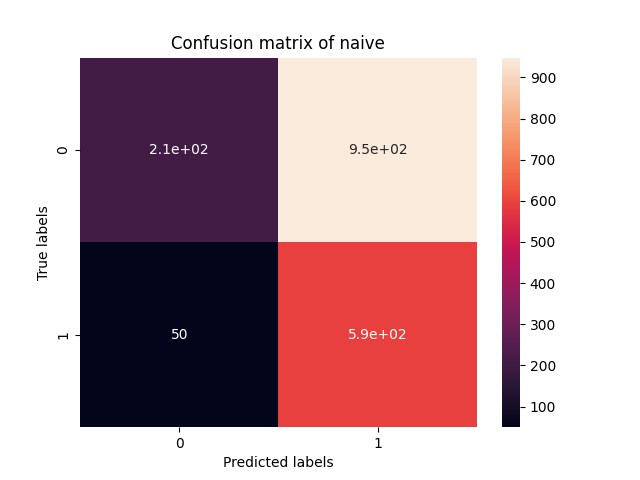
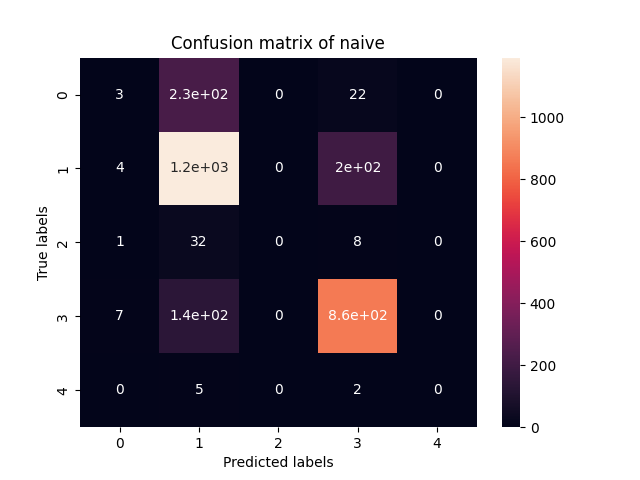
naive bayes classifier fixed

diff --git a/data_preprocess.py b/data_preprocess.py
@@ -9,6 +9,7 @@ from sklearn.preprocessing import StandardScaler
 from sklearn.model_selection import train_test_split
 from sklearn.preprocessing import OneHotEncoder
 import numpy as np 
+from sklearn.preprocessing import OrdinalEncoder, LabelEncoder
 '''Nettoyage. Puis se pose la question de la préparation des données proprement dite. Ces
 données nécessitent-elles un nettoyage ? Faut-il écarter certaines instances qui ne sont
 pas liées au problème ? Y a-t-il des valeurs manquantes ? Des valeurs aberrantes ? Des
@@ -133,7 +134,7 @@ class DataPreparation:
         print("Dropping the nan values...")
         data = self.data.dropna()
         data = data.sample(frac=1) # Shuffle the data
-        data = data[:20000]
+        data = data[:30000]
         # data = data[:1000]
         print("Dropping completed")
         # Subtract the start and end date in order to get the duration
@@ -219,20 +220,48 @@ class DataPreparation:
         return main_data,data["state"], data_numerical_scaled, data_categorical_encoded
 
 
-    def pretraitement(self,data, categorical=False, numerical=False):
+    def pretraitement(self,data, categorical=False, numerical=False, bayesian=False):
         '''
         Categorical:(boolean) if set to true return the already one encoded categorical data for some specific classifier such as naive bayes classifier
         '''
-        main_data,  target, data_numerical_scaled, data_categorical_encoded =self.recodage(data, binairy=True, ignored_goal=True)
+
+        main_data,  target, data_numerical_scaled, data_categorical_encoded =self.recodage(data, binairy=False, ignored_pledged=True)
         if categorical:
             return  data_categorical_encoded,target
         elif numerical:
             return data_numerical_scaled,target
+
+        elif bayesian:
+            encoder = OrdinalEncoder()
+            label_encoder = LabelEncoder()
+            data = self.nettoyage()
+            target = data["state"]
+            data.drop(["pledged"], axis=1, inplace=True)
+            data.drop(["subcategory"], axis=1, inplace=True)
+            data.drop(["state"], axis=1, inplace=True)
+            # discretize the attributes age, backers, goal,duration with equal-intervaled bins
+            age = pd.qcut(data['age'], q=10, precision=0)
+            backers = pd.qcut(data['backers'], q=3, precision=0)
+            goal = pd.qcut(data['goal'], q=10, precision=0)
+            duration = pd.cut(data['duration'], 10, precision=0)
+            data["age"] = age
+            data["backers"] = backers
+            data["goal"] = goal
+            data["duration"] = duration
+            data_encoded = encoder.fit_transform(data)
+            data_final = pd.DataFrame(data_encoded, columns=data.columns)
+            target_encoded = label_encoder.fit_transform(target)
+            # print(label_encoder.inverse_transform(target_encoded))
+            # print(data_final)
+
+
+            return data_final, target_encoded
+
         else:
             return main_data, target
          
 
-    def decoupage(self, data, categorical_data =False, numerical_data=False):
+    def decoupage(self, data, categorical_data =False, numerical_data=False, bayesian=False):
         '''
         Args:
             - X(pandas DataFrame): input data
@@ -262,6 +291,12 @@ class DataPreparation:
             # 10 % of test data and 10% of valid data and 80 % of train data
             X_train, X_test, y_train,y_test = train_test_split(X_train, y_train, test_size=0.1, random_state=42)
             return X_train, X_valid,X_test, y_train, y_valid,y_test
+        elif bayesian:
+            data_categorical_bayes, target= self.pretraitement(data, bayesian=True)
+            X_train, X_valid, y_train,y_valid = train_test_split(data_categorical_bayes, target, test_size=0.1, random_state=42)
+            # 10 % of test data and 10% of valid data and 80 % of train data
+            X_train, X_test, y_train,y_test = train_test_split(X_train, y_train, test_size=0.1, random_state=42)
+            return X_train, X_valid,X_test, y_train, y_valid,y_test
 
         
         else:
@@ -275,7 +310,7 @@ class DataPreparation:
             return X_train, X_valid,X_test, y_train, y_valid,y_test
 
 
-def main_data_splitter(data, categorical = False, numerical=False):
+def main_data_splitter(data, categorical = False, numerical=False, bayesian=False):
     '''
     Args: 
         - data: pandas DataFrame
@@ -310,6 +345,16 @@ def main_data_splitter(data, categorical = False, numerical=False):
         print(f'Shape of ytest {y_test.shape}')
         return X_train, X_valid,X_test, y_train, y_valid,y_test
 
+    elif bayesian:
+        X_train, X_valid,X_test, y_train, y_valid,y_test = preparation.decoupage(data, bayesian=True)
+        print(f'Shape of Xtrain {X_train.shape}')
+        print(f'Shape of XValid {X_valid.shape}')
+        print(f'Shape of Xtest {X_test.shape}')
+        print(f'Shape of ytrain {y_train.shape}')
+        print(f'Shape of yvalid {y_valid.shape}')
+        print(f'Shape of ytest {y_test.shape}')
+        return X_train, X_valid,X_test, y_train, y_valid,y_test
+
 
     else:
         X_train, X_valid,X_test, y_train, y_valid,y_test = preparation.decoupage(data)
@@ -325,7 +370,7 @@ def main_data_splitter(data, categorical = False, numerical=False):
 
 
 
-X_train, X_valid,X_test, y_train, y_valid,y_test= main_data_splitter(data)
+# X_train, X_valid,X_test, y_train, y_valid,y_test= main_data_splitter(data, bayesian=True)
 #X_train, X_valid,X_test, y_train, y_valid,y_test= main_data_splitter(data, numerical=True)
 # X_train, X_valid,X_test, y_train, y_valid,y_test= main_data_splitter(data, categorical=True)
 

diff --git a/classifier.py b/classifier.py
@@ -1,5 +1,6 @@
 from matplotlib import units
-from sklearn.naive_bayes import GaussianNB
+# from sklearn.naive_bayes import GaussianNB
+from sklearn.naive_bayes import CategoricalNB
 from sklearn.neighbors import KNeighborsClassifier
 from sklearn.svm import LinearSVC, SVC
 from sklearn.linear_model import LogisticRegression
@@ -9,6 +10,7 @@ from sklearn.metrics import confusion_matrix, classification_report
 import seaborn as sns
 import matplotlib.pyplot as plt
 from sklearn import tree
+from sklearn import svm
 
 
 
@@ -28,7 +30,7 @@ class Classifier:
         # labels, title and ticks
         ax.set_xlabel('Predicted labels'); ax.set_ylabel('True labels')
         ax.set_title('Confusion matrix of '+classifier)
-        plt.savefig("confusion_matrix_"+classifier)
+        plt.savefig("graphs/confusion_matrix_"+classifier)
 
 
         print("Classification report of "+classifier+ " classifier on the test data ")
@@ -36,36 +38,37 @@ class Classifier:
         classification = classification_report(y_test, y_pred_test)
         print(classification)
 
-    def svm_classifier(self):
-        X_train, X_valid,X_test, y_train, y_valid,y_test= main_data_splitter(data,numerical=True)
+    def svm_classifier(self, numerical=False, categorical=False):
+        X_train, X_valid,X_test, y_train, y_valid,y_test= main_data_splitter(data,numerical=numerical, categorical=categorical)
         # initialize the svm classifier
-        svm = SVC(C=1, kernel='linear')
+        # svm = SVC(C=1, kernel='linear')
+        SVM = svm.LinearSVC(C=1.0,tol=1e-4, multi_class='ovr',max_iter=5000, penalty='l2') #LinearSVC
         print("Training the svm model in process...")
-        svm.fit(X_train, y_train)
+        SVM.fit(X_train, y_train)
         print("Training terminated")
 
-        y_pred_valid = svm.predict(X_valid)
+        y_pred_valid = SVM.predict(X_valid)
 
-        y_pred_test =  svm.predict(X_test)
+        y_pred_test =  SVM.predict(X_test)
 
         print('Accuracy of SVM classifier on training set: {:.2f}'
-            .format(svm.score(X_train, y_train)))
+            .format(SVM.score(X_train, y_train)))
 
         print('Accuracy of SVM classifier on validation set: {:.2f}'
-            .format(svm.score(X_valid, y_valid)))
+            .format(SVM.score(X_valid, y_valid)))
 
         print("Confusion matrix of validation data")
         print(confusion_matrix(y_valid, y_pred_valid))
 
         print('Accuracy of SVM classifier on test set: {:.2f}'
-            .format(svm.score(X_test, y_test)))
+            .format(SVM.score(X_test, y_test)))
 
         self.plot_confusion_matrix(y_test, y_pred_test, "svm")
         
 
     def naive_bayes_classifier(self):
-        X_train, X_valid,X_test, y_train, y_valid,y_test= main_data_splitter(data, categorical=True)
-        naive = GaussianNB()
+        X_train, X_valid,X_test, y_train, y_valid,y_test= main_data_splitter(data,bayesian=True)
+        naive = CategoricalNB()
         print("Training the naive bayes model in process...")
         naive.fit(X_train, y_train)
         print("Training terminated")
@@ -148,10 +151,10 @@ class Classifier:
         self.plot_confusion_matrix(y_test, y_pred_test, "dectree")
 
 model = Classifier()
-model.svm_classifier()
-print("#"*150)
+# model.svm_classifier(numerical=True)
+# print("#"*150)
 model.naive_bayes_classifier()
-print("#"*150)
-model.knn_classifier()
-print("#"*150)
-model.decision_tree_classifier()
+# print("#"*150)
+# model.knn_classifier()
+# print("#"*150)
+# model.decision_tree_classifier()
